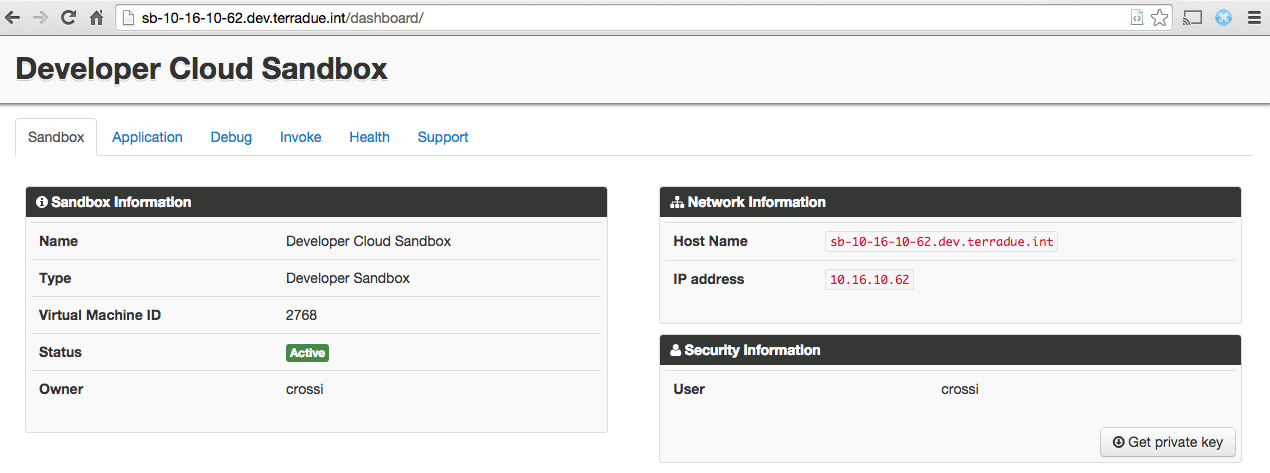
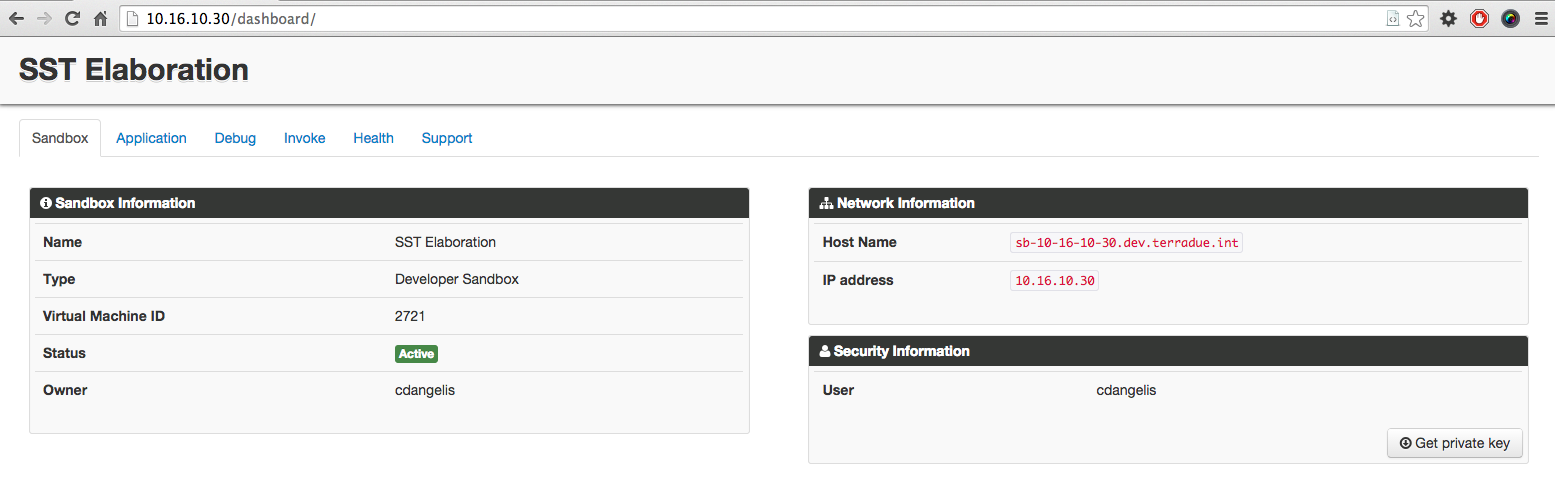
new images for hands-on. No references to imagemagik, using beam 5

diff --git a/source/developer/multinode.rst b/source/developer/multinode.rst
@@ -21,17 +21,6 @@ Install the Hands-On
   cd dcs-hands-on
   mvn clean install -D hands.on=6 -P bash
 
-Install the required packages
-=============================
-
-The second node that we added (*node_binning*) needs convert tools to perform image manipulations. This tool is named ImageMagick [#f1]_.
-
-* Type the following command:
-
-.. code-block:: console
-
-  sudo yum install -y ImageMagick
-
 Inspect the application.xml
 ===========================
 
@@ -97,30 +86,30 @@ The output will be similar to:
 
 .. code-block:: console-output
 
-  15/02/27 10:55:30 INFO node_binning simulation started
-  15/02/27 10:55:35 INFO Submitting job 3371 ...
-  15/02/27 10:55:36 WARN streaming.StreamJob: -jobconf option is deprecated, please use -D instead.
-  15/02/27 10:55:36 INFO streaming.StreamJob: Dir hdfs://sb-10-16-10-62.dev.terradue.int:8020/user/crossi/monitor already exists
-  packageJobJar: [/var/lib/hadoop-0.20/cache/crossi/hadoop-unjar1734819450932784901/] [] /tmp/streamjob8037491068763603475.jar tmpDir=null
-  15/02/27 10:55:36 WARN util.NativeCodeLoader: Unable to load native-hadoop library for your platform... using builtin-java classes where applicable
-  15/02/27 10:55:36 WARN snappy.LoadSnappy: Snappy native library not loaded
-  15/02/27 10:55:36 INFO mapred.FileInputFormat: Total input paths to process : 1
-  15/02/27 10:55:37 INFO streaming.StreamJob: getLocalDirs(): [/var/lib/hadoop-0.20/cache/crossi/mapred/local]
-  15/02/27 10:55:37 INFO streaming.StreamJob: Running job: job_201502261731_0007
-  15/02/27 10:55:37 INFO streaming.StreamJob: To kill this job, run:
-  15/02/27 10:55:37 INFO streaming.StreamJob: /usr/lib/hadoop-0.20/bin/hadoop job  -Dmapred.job.tracker=sb-10-16-10-62.dev.terradue.int:8021 -kill job_201502261731_0007
-  15/02/27 10:55:37 INFO streaming.StreamJob: Tracking URL: http://sb-10-16-10-62.dev.terradue.int:50030/jobdetails.jsp?jobid=job_201502261731_0007
-  15/02/27 10:55:38 INFO streaming.StreamJob:  map 0%  reduce 0%
-  15/02/27 10:55:40 INFO streaming.StreamJob:  map 100%  reduce 0%
-  15/02/27 10:55:47 INFO streaming.StreamJob:  map 100%  reduce 33%
-  15/02/27 10:55:50 INFO streaming.StreamJob:  map 100%  reduce 100%
-  15/02/27 10:56:50 INFO streaming.StreamJob: Job complete: job_201502261731_0007
-  15/02/27 10:56:50 INFO streaming.StreamJob: Output: /tmp/sandbox/hands-on-6/node_binning/output
-  15/02/27 10:56:50 INFO node_binning simulation ended (80 seconds)
-  15/02/27 10:56:52 INFO node_binning published:
-
-  15/02/27 10:56:52 INFO The intermediate results are available at http://sb-10-16-10-62.dev.terradue.int:50075/browseDirectory.jsp?dir=/tmp/sandbox/hands-on-6/node_binning%2Fdata&namenodeInfoPort=50070
-  15/02/27 10:56:52 INFO The published results are available at http://sb-10-16-10-62.dev.terradue.int:50075/browseDirectory.jsp?dir=/tmp/sandbox/hands-on-6/node_binning%2F_results&namenodeInfoPort=50070
+  15/03/03 11:29:35 INFO node_binning simulation started
+  15/03/03 11:29:40 INFO Submitting job 28128 ...
+  15/03/03 11:29:40 WARN streaming.StreamJob: -jobconf option is deprecated, please use -D instead.
+  15/03/03 11:29:41 INFO streaming.StreamJob: Dir hdfs://sb-10-16-10-30.dev.terradue.int:8020/user/cdangelis/monitor already exists
+  packageJobJar: [/var/lib/hadoop-0.20/cache/cdangelis/hadoop-unjar1829937380881405939/] [] /tmp/streamjob7701460819939999938.jar tmpDir=null
+  15/03/03 11:29:41 WARN util.NativeCodeLoader: Unable to load native-hadoop library for your platform... using builtin-java classes where applicable
+  15/03/03 11:29:41 WARN snappy.LoadSnappy: Snappy native library not loaded
+  15/03/03 11:29:41 INFO mapred.FileInputFormat: Total input paths to process : 1
+  15/03/03 11:29:41 INFO streaming.StreamJob: getLocalDirs(): [/var/lib/hadoop-0.20/cache/cdangelis/mapred/local]
+  15/03/03 11:29:41 INFO streaming.StreamJob: Running job: job_201502191028_0493
+  15/03/03 11:29:41 INFO streaming.StreamJob: To kill this job, run:
+  15/03/03 11:29:41 INFO streaming.StreamJob: /usr/lib/hadoop-0.20/bin/hadoop job  -Dmapred.job.tracker=sb-10-16-10-30.dev.terradue.int:8021 -kill job_201502191028_0493
+  15/03/03 11:29:41 INFO streaming.StreamJob: Tracking URL: http://sb-10-16-10-30.dev.terradue.int:50030/jobdetails.jsp?jobid=job_201502191028_0493
+  15/03/03 11:29:42 INFO streaming.StreamJob:  map 0%  reduce 0%
+  15/03/03 11:29:44 INFO streaming.StreamJob:  map 100%  reduce 0%
+  15/03/03 11:29:51 INFO streaming.StreamJob:  map 100%  reduce 33%
+  15/03/03 11:29:54 INFO streaming.StreamJob:  map 100%  reduce 100%
+  15/03/03 11:30:58 INFO streaming.StreamJob: Job complete: job_201502191028_0493
+  15/03/03 11:30:58 INFO streaming.StreamJob: Output: /tmp/sandbox/hands-on-6/node_binning/output
+  15/03/03 11:30:58 INFO node_binning simulation ended (83 seconds)
+  15/03/03 11:30:58 INFO node_binning published:
+   
+  15/03/03 11:30:58 INFO The intermediate results are available at http://sb-10-16-10-30.dev.terradue.int:50075/browseDirectory.jsp?dir=/tmp/sandbox/hands-on-6/node_binning%2Fdata&namenodeInfoPort=50070
+  15/03/03 11:30:58 INFO The published results are available at http://sb-10-16-10-30.dev.terradue.int:50075/browseDirectory.jsp?dir=/tmp/sandbox/hands-on-6/node_binning%2F_results&namenodeInfoPort=50070
 
 * Run the entire workflow:
 
@@ -134,31 +123,31 @@ The output will be similar to:
 
 .. code-block:: console-output
 
-  Job ID : 0000000-150226173121045-oozie-oozi-W
-  ------------------------------------------------------------------------------------------------------
+  Job ID : 0000267-150209145053100-oozie-oozi-W
+  ------------------------------------------------------------------------------------------------------------------------------------
   Workflow Name : hands-on-6
-  App Path      : hdfs://sb-10-16-10-62.dev.terradue.int:8020/tmp/b96b3e65-1147-4f68-970c-0651a052d9behands-on-6/workflow.xml
+  App Path      : hdfs://sb-10-16-10-30.dev.terradue.int:8020/tmp/1727a922-5461-48e2-81f3-2f6985654b52hands-on-6/workflow.xml
   Status        : SUCCEEDED
   Run           : 0
-  User          : crossi
+  User          : cdangelis
   Group         : users
-  Created       : 2015-02-27 10:59
-  Started       : 2015-02-27 10:59
-  Last Modified : 2015-02-27 11:03
-  Ended         : 2015-02-27 11:03
+  Created       : 2015-03-03 11:32
+  Started       : 2015-03-03 11:32
+  Last Modified : 2015-03-03 11:34
+  Ended         : 2015-03-03 11:34
 
   Actions
-  ------------------------------------------------------------------------------------------------------
-  ID                                               Status    Ext ID                 Ext Status Err Code
-  ------------------------------------------------------------------------------------------------------
-  0000000-150226173121045-oozie-oozi-W@hdfscommands       OK        -                      OK         -
-  ------------------------------------------------------------------------------------------------------
-  0000000-150226173121045-oozie-oozi-W@n-node_expression  OK        job_201502261731_0009  SUCCEEDED  -
-  ------------------------------------------------------------------------------------------------------
-  0000000-150226173121045-oozie-oozi-W@n-node_binning     OK        job_201502261731_0011  SUCCEEDED  -
-  ------------------------------------------------------------------------------------------------------
-  0000000-150226173121045-oozie-oozi-W@publish-results    OK        job_201502261731_0013  SUCCEEDED  -
-  ------------------------------------------------------------------------------------------------------
+  ------------------------------------------------------------------------------------------------------------------------------------
+  ID                                                                            Status    Ext ID                 Ext Status Err Code
+  ------------------------------------------------------------------------------------------------------------------------------------
+  0000267-150209145053100-oozie-oozi-W@hdfscommands                             OK    -                      OK         -
+  ------------------------------------------------------------------------------------------------------------------------------------
+  0000267-150209145053100-oozie-oozi-W@n-node_expression                        OK        job_201502191028_0495  SUCCEEDED  -
+  ------------------------------------------------------------------------------------------------------------------------------------
+  0000267-150209145053100-oozie-oozi-W@n-node_binning                           OK        job_201502191028_0497  SUCCEEDED  -
+  ------------------------------------------------------------------------------------------------------------------------------------
+  0000267-150209145053100-oozie-oozi-W@publish-results                          OK        job_201502191028_0499  SUCCEEDED  -
+  ------------------------------------------------------------------------------------------------------------------------------------
 
 * To close the *ciop-simwf* output page, press CTRL+C.
 

diff --git a/source/developer/toolbox.rst b/source/developer/toolbox.rst
@@ -21,14 +21,14 @@ Install the Hands-On
   cd dcs-hands-on
   mvn clean install -D hands.on=4 -P bash
 
-Install the ESA BEAM Toolbox
-============================
+Install the BEAM Toolbox
+========================
 
-The ESA BEAM (Basic ERS & Envisat (A) ATSR and Meris) Toolbox [#f1]_ is an open-source toolbox and development platform for viewing, analyzing and processing of remote sensing raster data. To install it type:
+The BEAM (Basic ERS & Envisat (A) ATSR and Meris) Toolbox [#f1]_ is an open-source toolbox and development platform for viewing, analyzing and processing of remote sensing raster data. To install it type:
 
 .. code-block:: console
 
-  sudo yum install -y esa-beam-4.11
+  sudo yum install -y beam-5.0
 
 Inspect the application.xml
 ===========================
@@ -44,7 +44,7 @@ Inspect the *application.xml*, it looks slightly different:
 Inspect the run executable
 ===========================
 
-* The ESA BEAM Toolbox has to be called in the run executable. We can inspect the run executable and see when and how the ESA BEAM Toolbox is used: 
+* The BEAM Toolbox has to be called in the run executable. We can inspect the run executable and see when and how the BEAM Toolbox is used: 
 
 .. code-block:: console
 
@@ -52,7 +52,7 @@ Inspect the run executable
   more expression/run
 
 .. HINT::
-  The ESA BEAM Toolbox is executed through the *gpt.sh* script
+  The BEAM Toolbox is executed through the *gpt.sh* script
 
 For further explaination see "Bulk Processing with GPT" [#f2]_ and "Creating a GPF Graph" [#f3]_.
 

diff --git a/source/developer/general_notes.rst b/source/developer/general_notes.rst
@@ -26,6 +26,26 @@ In order to have the code locally available on your Sandbox, you have to clone t
   You have now the resources needed to complete all the Hands-On !
 
 
+Programming language
+^^^^^^^^^^^^^^^^^^^^
+
+The hands-on are available in 2 different versions, bash and python. You can choose which version to use. All the following hands-on relate to bash, but you can choose to use python, the behaviour will not change.
+* Select bash hands-on 1
+.. code-block:: console
+
+  
+  mvn clean install -D hands.on=1 -P bash
+
+.. admonition:: Congrats
+
+* Select python hands-on 1
+.. code-block:: console
+
+  
+  mvn clean install -D hands.on=1 -P python
+
+.. admonition:: Congrats
+
 Using the code examples
 ^^^^^^^^^^^^^^^^^^^^^^^^
 

diff --git a/source/developer/browseresults.rst b/source/developer/browseresults.rst
@@ -50,7 +50,7 @@ Browse the results
 
 * Click on the link *hands-on-8*,
 
-* Click on the link representing the workflow id (e.g., *0000000-140703150626955-oozie-oozi-W*),
+* Click on the link representing the workflow id (e.g., *0000269-150209145053100-oozie-oozi-W*),
 
 * Click on the link *_result*,
   
